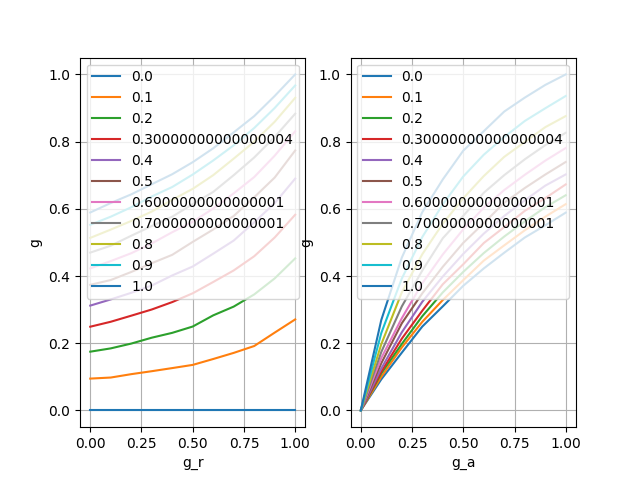
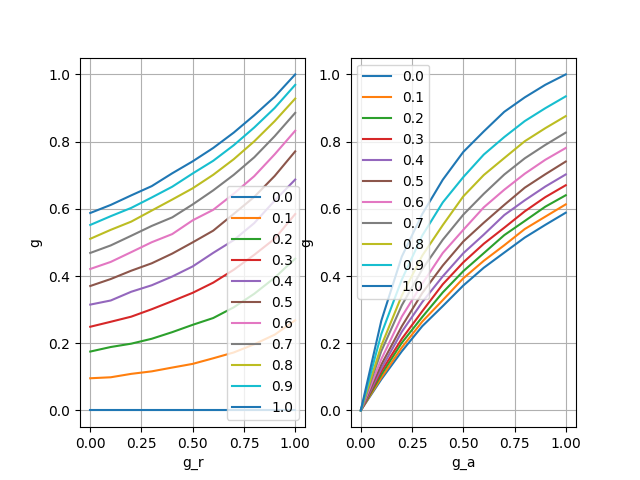
update delay code

diff --git a/delay.py b/delay.py
@@ -1,1 +1,120 @@
 import utils 
+import numpy as np 
+import matplotlib.pyplot as plt 
+
+class NetworkCoding: 
+    def __init__(self):
+        self._gr_arr = np.arange(0, 1.1, 0.1)
+        self._gr = 0.5
+        self._q = 0.6
+        self._ga = 0.5
+        self.no_slots = 50000
+
+        
+
+    def coding(self): 
+
+        throuput_sim = []
+        delay_sim = []
+
+        for gr in self._gr_arr:
+            
+            pass_pkt = 0 
+            delay_pkt = 0 
+            A = utils.EndNode() 
+            B = utils.EndNode()
+            R = utils.RelayNode()
+
+            for iter in range(self.no_slots): 
+                # Node A 
+                A_is_newPk_arrived = np.random.rand() > self._ga
+                A_is_send = A_is_newPk_arrived or (A.qnode.qsize() > 0 and np.random.rand() > gr) 
+                
+                if A_is_send: 
+                    A_pk = utils.Packet('A', iter) if A_is_newPk_arrived else A.qnode.get() 
+                
+                # Node B 
+                B_is_newPk_arrived = np.random.rand() > self._ga 
+                B_is_send = B_is_newPk_arrived or (B.qnode.qsize() > 0 and np.random.rand() > gr) 
+                
+                if B_is_send: 
+                    B_pk = utils.Packet('B', iter) if B_is_newPk_arrived else B.qnode.get()
+
+                # Node R
+                R_is_send = (R.vA.qsize() > 0 or R.vB.qsize() > 0) and (np.random.rand() > self._q)
+
+                if R_is_send == False: 
+                    if A_is_send:  
+                        if B_is_send: 
+                            A.qnode.put(A_pk)
+                            B.qnode.put(B_pk)
+                        else: 
+                            R.vA.put(A_pk)
+                    else: 
+                        if B_is_send: 
+                            R.vB.put(B_pk)
+                else:
+                    vA_size = R.vA.qsize()
+                    vB_size = R.vB.qsize()
+
+                    if A_is_send == False and B_is_send == False: 
+                        if vA_size != 0 and vB_size != 0: # R sends a coding packet 
+                            pk_from_A = R.vA.get() 
+                            pk_from_B = R.vB.get()
+                            delay_pkt = delay_pkt + (iter - pk_from_A.t_in) + (iter - pk_from_B.t_in)
+                            pass_pkt = pass_pkt + 2 
+                        
+                        elif vA_size != 0 and vB_size == 0: # R sends successfully a packet from A to B 
+                            pk_from_A = R.vA.get()
+                            pass_pkt = pass_pkt + 1 
+                            delay_pkt = delay_pkt + (iter - pk_from_A.t_in) 
+
+                        elif vB_size != 0 and vA_size == 0: # R sends successfully a packet from B to A  
+                            pk_from_B = R.vB.get()
+                            pass_pkt = pass_pkt + 1 
+                            delay_pkt = delay_pkt + (iter - pk_from_B.t_in)
+                    
+                    elif A_is_send and B_is_send == False: # collision between R and A
+                        if vB_size != 0: # R sent a coding packet from B and A || a native packet form B 
+                            pk_from_B = R.vB.get()
+                            pass_pkt = pass_pkt + 1 
+                            delay_pkt = delay_pkt + (iter - pk_from_B.t_in)
+
+                    elif A_is_send == False and B_is_send == True: 
+                        if vA_size != 0: 
+                            pk_from_A = R.vA.get() 
+                            delay_pkt = delay_pkt + (iter - pk_from_A.t_in)
+                            pass_pkt = pass_pkt + 1
+
+            throuput_sim.append(pass_pkt/self.no_slots)
+            delay_sim.append(delay_pkt/pass_pkt if pass_pkt > 0 else 0)
+
+        return throuput_sim, delay_sim
+    
+    def run(self): 
+        th_sim, delay_sim = self.coding()
+        fig, (ax1, ax2) = plt.subplots(nrows=1, ncols=2)
+        ax1.plot(self._gr_arr, th_sim) 
+        ax2.plot(self._gr_arr, delay_sim)
+        plt.show()
+
+NC = NetworkCoding()
+NC.run()
+
+
+
+                
+            
+
+
+
+
+
+
+                 
+
+            
+            
+            
+
+            

diff --git a/slottedAloha.py b/slottedAloha.py
@@ -186,7 +186,7 @@ class SlottedAloha:
                 g = self.ga_g_relation(gr_idx, ga_idx, q)
                 g_arr.append(g)
             
-            ax2.plot(gr, g_arr, label=f'{ga_idx}')
+            ax2.plot(gr, g_arr, label='{:.1f}'.format(ga_idx))
              
             ax2.set_xlabel('g_r')
             ax2.set_ylabel('g')
@@ -200,7 +200,7 @@ class SlottedAloha:
                 g = self.ga_g_relation(gr_idx, ga_idx, q)
                 g_arr.append(g)
              
-            ax3.plot(ga, g_arr, label=f'{gr_idx}')
+            ax3.plot(ga, g_arr, label='{:.1f}'.format(gr_idx))
              
             ax3.set_xlabel('g_a')
             ax3.set_ylabel('g')

diff --git a/utils.py b/utils.py
@@ -12,7 +12,7 @@ class Packet:
 
 class EndNode: 
     def __init__(self): 
-        self.q = queue.Queue()
+        self.qnode = queue.Queue()
 
 class RelayNode: 
     def __init__(self): 
